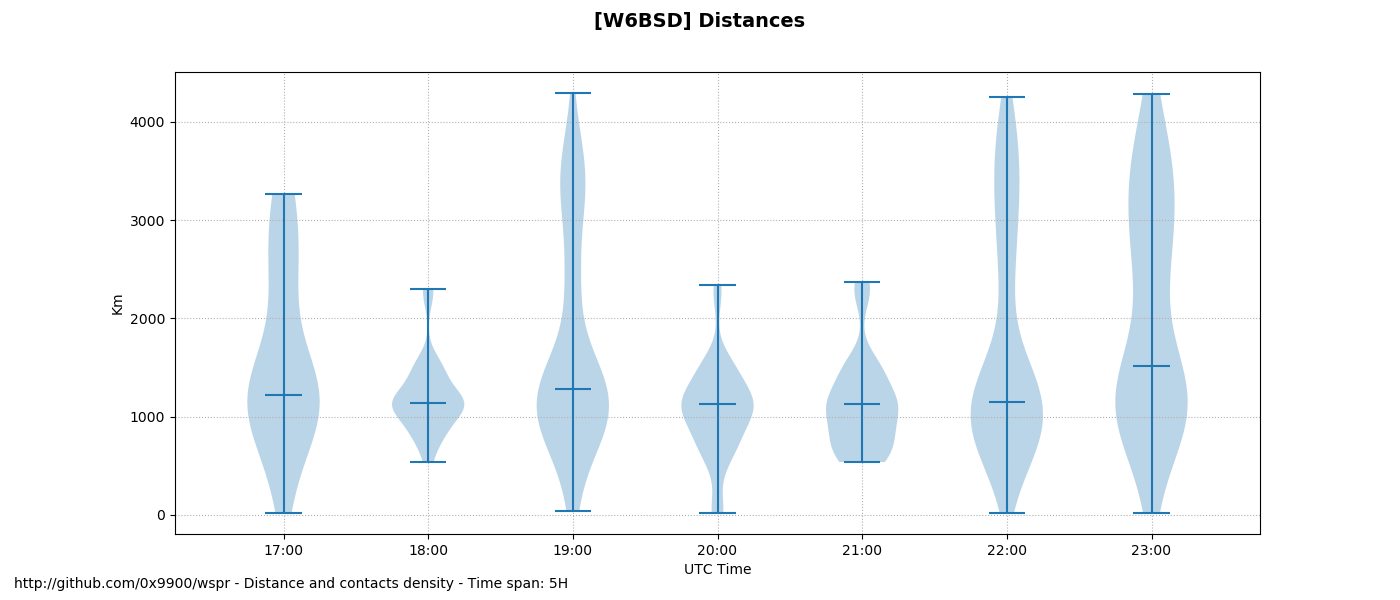
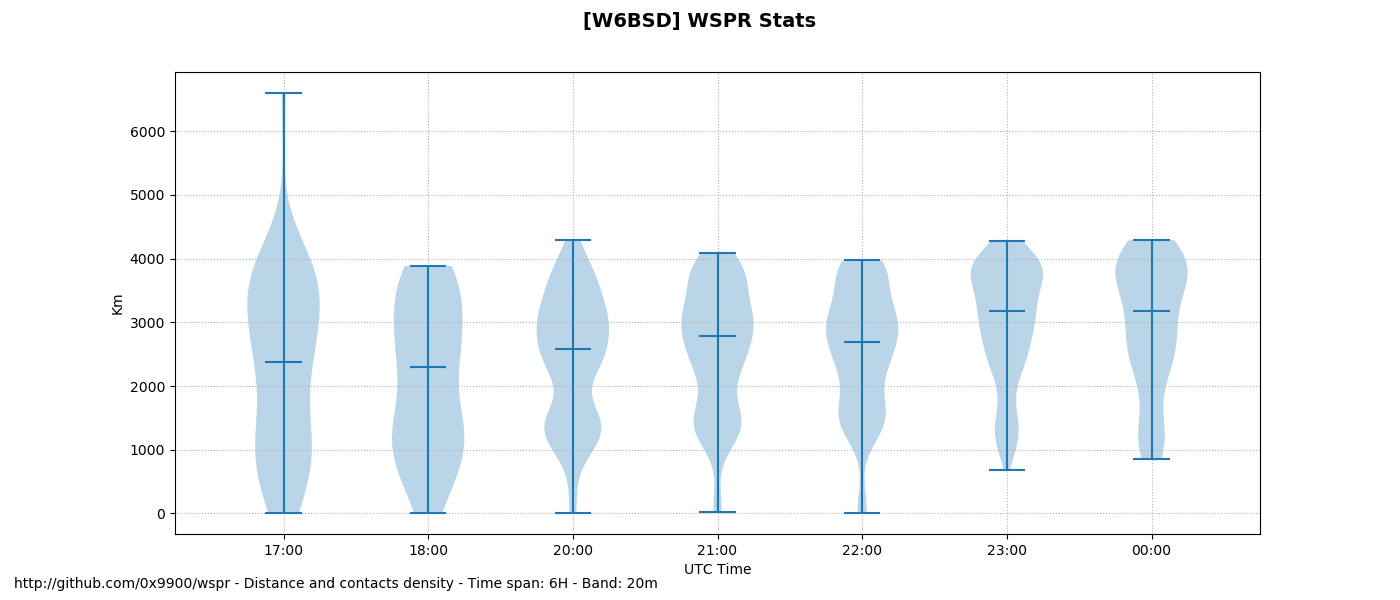
Adding the histogram plot expose the skip zones

diff --git a/leaf.py b/leaf.py
@@ -201,7 +201,7 @@ def azimuth(wspr_data):
   fig = plt.figure(figsize=(8, 8))
   fig.text(.01, .02, ('http://github.com/0x9900/wspr - Distance & direction - '
                       'Time span: %sH - Band: %s') % (Config.timespan, Config.band))
-  fig.suptitle('[{}] Azimuth x Distance'.format(Config.callsign), fontsize=14, fontweight='bold')
+  fig.suptitle('[{}] WSPR Stats'.format(Config.callsign), fontsize=14, fontweight='bold')
 
   ax_ = fig.add_subplot(111, projection="polar")
   ax_.set_theta_zero_location("N")
@@ -211,12 +211,32 @@ def azimuth(wspr_data):
   plt.savefig(filename)
   plt.close()
 
+def skip_plot(wspr_data):
+  """Show the skip zones"""
+
+  filename = os.path.join(Config.target, 'skipplot.png')
+  logging.info('Drawing skip_plot to %s', filename)
+
+  data = np.array([d.distance for d in wspr_data])
+
+  fig, ax_ = plt.subplots(figsize=Config.fig_size)
+  fig.text(.01, .02, ('http://github.com/0x9900/wspr - Skip zones - Time span: '
+                      '%sH - Band: %s') % (Config.timespan, Config.band))
+  fig.suptitle('[{}] WSPR Stats'.format(Config.callsign), fontsize=14, fontweight='bold')
+
+  ax_.set_xlabel('Distances in Km')
+  ax_.set_ylabel('Contacts')
+  ax_.hist(data, bins="auto", alpha=0.9, rwidth=0.95)
+
+  plt.savefig(filename)
+  plt.close()
+
 
 def dist_plot(wspr_data):
   """Show the maximum distances"""
 
   filename = os.path.join(Config.target, 'distplot.png')
-  logging.info('Drawing distplot to %s', filename)
+  logging.info('Drawing dist_plot to %s', filename)
 
   collection = collections.defaultdict(list)
   for data in wspr_data:
@@ -235,7 +255,7 @@ def dist_plot(wspr_data):
   fig, ax_ = plt.subplots(figsize=Config.fig_size)
   fig.text(.01, .02, ('http://github.com/0x9900/wspr - Distance %sth percentile - Time span: '
                       '%sH - Band: %s') % (Config.percentile, Config.timespan, Config.band))
-  fig.suptitle('[{}] Distances'.format(Config.callsign), fontsize=14, fontweight='bold')
+  fig.suptitle('[{}] WSPR Stats'.format(Config.callsign), fontsize=14, fontweight='bold')
   fig.autofmt_xdate()
 
   ax_.xaxis.set_major_formatter(mdates.DateFormatter('%H:%M'))
@@ -255,7 +275,7 @@ def box_plot(wspr_data):
   distance. It also show the outliers."""
 
   filename = os.path.join(Config.target, 'boxplot.png')
-  logging.info('Drawing boxplot to %s', filename)
+  logging.info('Drawing box_plot to %s', filename)
 
   collection = collections.defaultdict(list)
   for val in wspr_data:
@@ -269,7 +289,7 @@ def box_plot(wspr_data):
   fig, ax_ = plt.subplots(figsize=Config.fig_size)
   fig.text(.01, .02, ('http://github.com/0x9900/wspr - Distance quartile range - '
                       'Time span: %sH - Band: %s') % (Config.timespan, Config.band))
-  fig.suptitle('[{}] Distances'.format(Config.callsign), fontsize=14, fontweight='bold')
+  fig.suptitle('[{}] WSPR Stats'.format(Config.callsign), fontsize=14, fontweight='bold')
   fig.autofmt_xdate()
 
   labels, values = zip(*data)
@@ -310,7 +330,7 @@ def violin_plot(wspr_data):
   fig, ax_ = plt.subplots(figsize=Config.fig_size)
   fig.text(.01, .02, ('http://github.com/0x9900/wspr - Distance and contacts density - '
                       'Time span: %sH - Band: %s') % (Config.timespan, Config.band))
-  fig.suptitle('[{}] Distances'.format(Config.callsign), fontsize=14, fontweight='bold')
+  fig.suptitle('[{}] WSPR Stats'.format(Config.callsign), fontsize=14, fontweight='bold')
 
   ax_.xaxis.set_ticks_position('bottom')
   ax_.set_xticks(np.arange(1, len(labels) + 1))
@@ -347,7 +367,7 @@ def contact_map(wspr_data):
   fig = plt.figure(figsize=(12, 8))
   fig.text(.01, .02, ('http://github/com/0x9900/wspr - Contacts map - '
                       'Time span: %sH - Band: %s') % (Config.timespan, Config.band))
-  fig.suptitle('[{}] Contact Map'.format(Config.callsign), fontsize=14, fontweight='bold')
+  fig.suptitle('[{}] WSPR Stats'.format(Config.callsign), fontsize=14, fontweight='bold')
 
   logging.info("Origin lat: %f / lon: %f", wspr_data[0].tx_lat, wspr_data[0].tx_lon)
   bmap = Basemap(projection='cyl', lon_0=wspr_data[0].tx_lon, lat_0=wspr_data[0].tx_lat,
@@ -414,6 +434,7 @@ def main():
     violin_plot(wspr_data)
     azimuth(wspr_data)
     dist_plot(wspr_data)
+    skip_plot(wspr_data)
     if Basemap:
       contact_map(wspr_data)
   except ValueError as err:

diff --git a/README.md b/README.md
@@ -62,6 +62,11 @@ distributed in the IQR.
 
 ![Distribution](graphs/violin.png)
 
+This histogram graph show at what distance your contacts are made. The
+absence of low number of contact indicate the skip zones.
+
+![Skip Zones](graph/skipplot.png)
+
 The azimuth graph shows what direction will show if your signal has
 been heard more in a specific direction.
 
